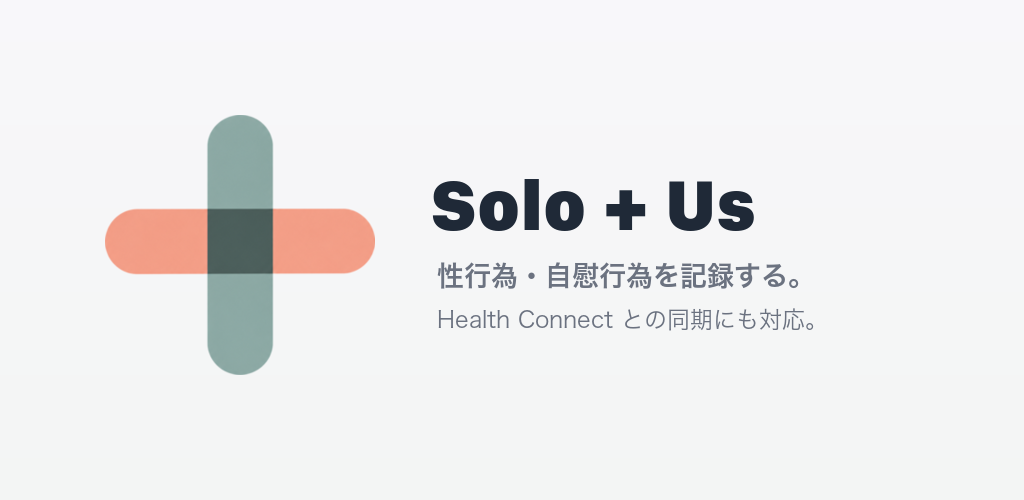
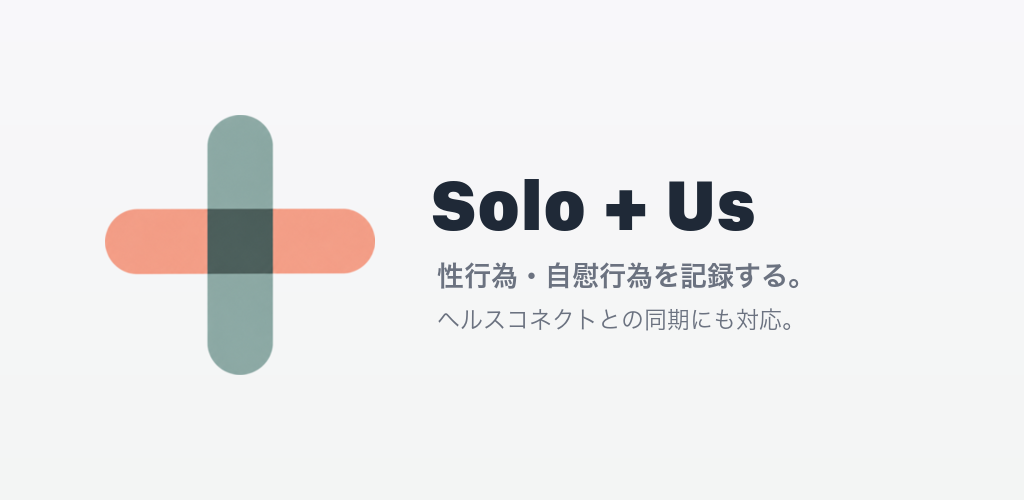
[docs] 日本語の掲載文とグラフィックをヘルスコネクト表記に差し替え、審査通過とPlay版の実機確認を記録

Changed region(s): [[0.4062, 0.6, 0.8125, 0.66]]

diff --git a/docs/health-connect-release.md b/docs/health-connect-release.md
@@ -14,7 +14,7 @@
 - **2026-11-10、ステップ1から「次へ」を押した結果**: ステップ2「地域ごとの要件」には「現時点では、このアプリでは、健康に関する申告について地域ごとの要件となる情報を提供する必要はありません」とだけ出て、Health Connect のデータ型の説明欄は**出なかった**。つまり、内部テストに権限入りの AAB を上げただけでは、この画面に HC の欄は現れない。公式ページ（Android Developers の declare-access と Play Console ヘルプ 14738291）は、HC の欄が出る条件を書いていない。両ページとも「機能を選んで次へ → 次の画面でデータ型ごとに説明」と書くだけで、トラックやリリース作成画面との関係には触れていない。**欄が出るのは本番リリースの作成か公開の概要の段階かもしれないが、未確認**。この画面で「保存」を押さないこと（権限なしの 1.0.4 に対する申告を、意図せず更新しうる）
 - **2026-11-10、本番トラックでリリースの下書き（9 (1.0.5)）を作った結果**: 「プレビューして確認する」の画面にも「公開の概要」にも、健康アプリの申告や Health Connect を求める警告・エラーは出なかった。「公開の概要」は「変更内容を審査に送信できるようになりました」と表示した。つまり Console は、送信の段階でも HC の申告を強制しない。**だからこそ、送る前にデータセーフティ・掲載文・カテゴリを自分で合わせておく必要がある**（Console は不一致を事前に教えてくれない。2026-10-01 の否承認と同じ型の失敗を避ける）
[1 lines of base64/hex data omitted]
-- **2026-11-13 までに、HC 版 10 (1.0.5) が Android で公開された**（ユーザーの報告。承認の日付と、審査中に Google から Health Connect の申告・追加情報を求められたかは未確認）。公開後（2026-11-13）の確認: 「sex tracker」の検索順位は、en/US・ja/JP とも **9 位のまま**（Play のウェブ検索。名前変更後の 11/10 と変わらず）。「health connect sex」の先頭約25件には出ない（切れているので圏外とは言えない）。**公開された掲載ページの中身（説明・データセーフティの表示）は、取得ツールでは取れず、確認できていない**（ブラウザで確認する）。**未確認**: Play 経由で入れた版の実機確認（Pixel 11 は自動更新されて 1.0.5 になっているはず。実記録のある端末なので、HC を有効にすると実記録が HC に入る点に注意）、「管理対象の公開」の提出時の設定。**次の作業**: 簡単な説明の書き換え（`docs/store-listing.md`、文面は確定済み）、公開後のインプレッションの推移（11/8 以降）の記録
+- **2026-11-13 までに、HC 版 10 (1.0.5) が Android で公開された**（ユーザーの報告。**審査は、追加の申告や情報を求められることなく、そのまま通った**（2026-11-13 のユーザーの報告）。承認の日付は未確認）。公開後（2026-11-13）の確認: 「sex tracker」の検索順位は、en/US・ja/JP とも **9 位のまま**（Play のウェブ検索。名前変更後の 11/10 と変わらず）。「health connect sex」の先頭約25件には出ない（切れているので圏外とは言えない）。**公開された掲載ページの中身（説明・データセーフティの表示）は、取得ツールでは取れず、確認できていない**（ブラウザで確認する）。**Play 経由の公開版の実機確認（2026-11-13、ユーザーの報告）: Pixel 11（Android 16、実記録のある端末）で、Health Connect への接続と、同期をオンにする前の確認ダイアログが、無事に動いた。** 未確認: 「管理対象の公開」の提出時の設定（公開済みなので、実害は無い）、過去の記録の送信案内の Play 版での確認。**次の作業**: 簡単な説明の書き換え（`docs/store-listing.md`、文面は確定済み）、公開後のインプレッションの推移（11/8 以降）の記録
 - **公開済みの v1.0.4 のフォームは、HC 版の準備ができる前に変更しない**（不要な再審査を避ける）。申告は、HC 版の本番リリースと**同時に**「公開の概要」から送る（申告だけを先に送ると、本番に出ている 1.0.4 は権限を持たないので、申告と実態がずれる）。それまでは「下書きとして保存」にとどめる
 
 ## 審査で懸念される点
